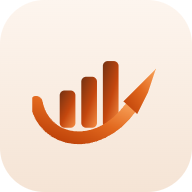
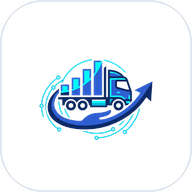
cambios

diff --git a/public/index.html b/public/index.html
@@ -23,7 +23,7 @@
     <link
         href="https://fonts.googleapis.com/css2?family=Material+Symbols+Outlined:opsz,wght,FILL,GRAD@20..48,100..700,0..1,-50..200&display=block"
         rel="stylesheet">
-    <link rel="stylesheet" href="styles.css?v=81">
+    <link rel="stylesheet" href="styles.css?v=83">
     <link rel="stylesheet" href="mobile-calendar.css?v=82">
     <style>
         /* ===== SPLASH SCREEN (rápido y profesional, ~0.6s total) ===== */
@@ -63,10 +63,12 @@
             gap: 12px;
         }
         #splash .sp-mark {
-            width: 52px;
-            height: 40px;
+            width: 44px;
+            height: 44px;
             flex: none;
-            overflow: visible;
+            border-radius: 11px;
+            box-shadow: 0 4px 14px rgba(2, 132, 199, 0.2);
+            object-fit: contain;
         }
         #splash .sp-word {
             font-size: 27px;
@@ -80,10 +82,10 @@
         }
         #splash .sp-word b {
             font-weight: 700;
-            color: #CF4500;
+            color: #0284C7;
         }
         #splash.dark .sp-word b {
-            color: #F0873F;
+            color: #38BDF8;
         }
         #splash .sp-bar {
             width: 48px;
@@ -103,7 +105,7 @@
             left: 0;
             height: 100%;
             width: 50%;
-            background: linear-gradient(90deg, #CF4500, #F0873F);
+            background: linear-gradient(90deg, #0284C7, #38BDF8);
             border-radius: 999px;
             animation: spProgress 0.6s cubic-bezier(0.4, 0, 0.2, 1) infinite;
         }
@@ -127,27 +129,7 @@
     <div id="splash">
         <div class="sp-wrap">
             <div class="sp-brand">
-                <svg class="sp-mark" viewBox="0 0 130 100" xmlns="http://www.w3.org/2000/svg" aria-hidden="true">
-                    <defs>
-                        <linearGradient id="spBar" x1=".1" y1="0" x2=".9" y2="1">
-                            <stop offset="0" stop-color="#7A3413"/>
-                            <stop offset=".55" stop-color="#C4470E"/>
-                            <stop offset="1" stop-color="#F0873F"/>
-                        </linearGradient>
-                        <linearGradient id="spOr" x1="0" y1="1" x2="1" y2="0">
-                            <stop offset="0" stop-color="#B93C05"/>
-                            <stop offset=".55" stop-color="#E2691F"/>
-                            <stop offset="1" stop-color="#F9A45C"/>
-                        </linearGradient>
-                    </defs>
-                    <g fill="url(#spBar)">
-                        <rect x="28" y="44" width="16" height="38" rx="5"/>
-                        <rect x="50" y="30" width="16" height="52" rx="5"/>
-                        <rect x="72" y="14" width="16" height="68" rx="5"/>
-                    </g>
-                    <path d="M4 56 C12 98 66 108 100 62" fill="none" stroke="url(#spOr)" stroke-width="13" stroke-linecap="round"/>
-                    <path d="M107 68 L93 55 L126 22 L118 46 Z" fill="url(#spOr)"/>
-                </svg>
+                <img src="icon.svg" alt="Conta Medina" class="sp-mark" width="44" height="44">
                 <div class="sp-word">Conta <b>Medina</b></div>
             </div>
             <div class="sp-bar"></div>

diff --git a/public/styles.css b/public/styles.css
@@ -216,7 +216,7 @@ h1, h2, h3, h4, h5, h6,
 }
 
 .brand-accent {
-    color: var(--signal-orange);
+    color: #0284C7;
 }
 
 .brand-sub {
@@ -5726,14 +5726,16 @@ body, .header, .day-card, .kpi, .chart-card, .modal, .sidebar-left, .bottom-nav 
 /* En claro el degradado va de bronce a oro oscuro, no a oro brillante: sobre
    el cream, #D9A93C daba 1.91:1 y la mitad derecha de la palabra se perdía. */
 .brand-accent {
-    background: linear-gradient(135deg, #8A6018, #A8781F);
+    color: #0284C7;
+    background: linear-gradient(135deg, #0284C7, #0369A1);
     -webkit-background-clip: text;
     background-clip: text;
     -webkit-text-fill-color: transparent;
 }
 
 [data-theme="dark"] .brand-accent {
-    background: linear-gradient(135deg, #D9A93C, #F7E3A1);
+    color: #38BDF8;
+    background: linear-gradient(135deg, #38BDF8, #60A5FA);
     -webkit-background-clip: text;
     background-clip: text;
     -webkit-text-fill-color: transparent;

diff --git a/public/sw.js b/public/sw.js
@@ -1,11 +1,11 @@
-// v82 — calendario por ciclo y saldos acumulados diarios
-const CACHE_NAME = 'contamedina-v82';
+// v83 — Nuevo logo corporativo integrado: transporte & contabilidad
+const CACHE_NAME = 'contamedina-v83';
 
 // All app shell files to pre-cache on install
 const SHELL = [
     './',
     './index.html',
-    './styles.css?v=81',
+    './styles.css?v=83',
     './app.js?v=82',
     './ui-controls.js',
     './mobile-shell.js?v=81',
